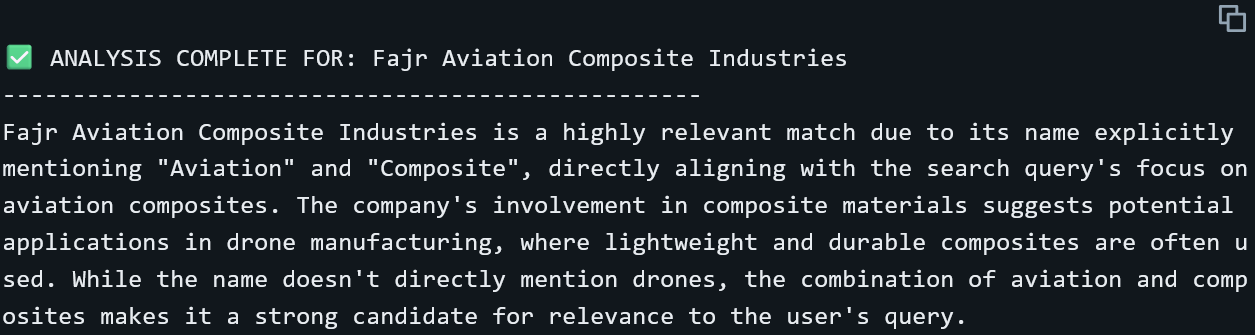
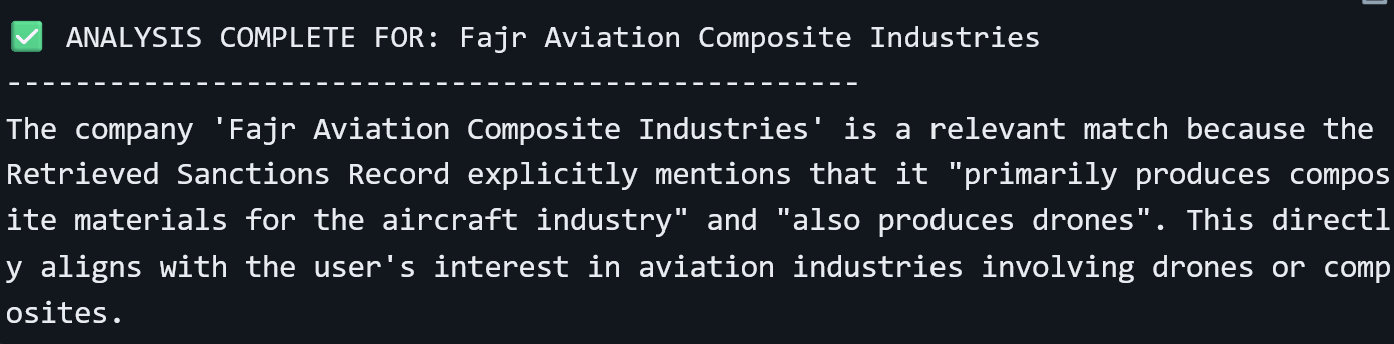
fixed RAG grounding

diff --git a/notebooks/03_gold/06_vector_indexing_&_rag.py b/notebooks/03_gold/06_vector_indexing_&_rag.py
@@ -52,7 +52,7 @@ search_results_df = spark.createDataFrame(matches[["entity_id", "similarity_scor
 final_candidates = (search_results_df
     .join(spark.table("default.gold_vectors"), on="entity_id")
     .dropDuplicates(["entity_id"]) # Only show each company once
-    .select("entity_name", "similarity_score")
+    .select("entity_name", "gold_text", "similarity_score")
     .orderBy("similarity_score")
 )
 
@@ -83,16 +83,22 @@ try:
     # We use .first() because we only want to analyze the #1 best match for now
     best_match_row = final_candidates.first()
     company_name = best_match_row["entity_name"]
+    retrieved_context = best_match_row["gold_text"]
     score = best_match_row["similarity_score"]
 
     # 3. Create a targeted prompt
     prompt = f"""
-    Context: A vector search of 1.19 million industry records identified '{company_name}' 
-    as the most relevant entity (Similarity Distance: {score:.4f}).
+    Context: A vector search identified '{company_name}' as the most relevant entity 
+    (Similarity Distance: {score:.4f}).
+
+    Retrieved Sanctions Record:
+    "{retrieved_context}"
 
     User Question: "I am looking for aviation industries involving drones or composites."
 
-    Task: Briefly explain why this company is a highly relevant match for drones or aviation composites.
+    Task: Based ONLY on the Retrieved Sanctions Record above, explain why this company 
+    is a relevant match. If the record does not explicitly mention drones or composites, 
+    say so explicitly rather than inferring a connection.
     """
 
     # 4. Call the LLM
